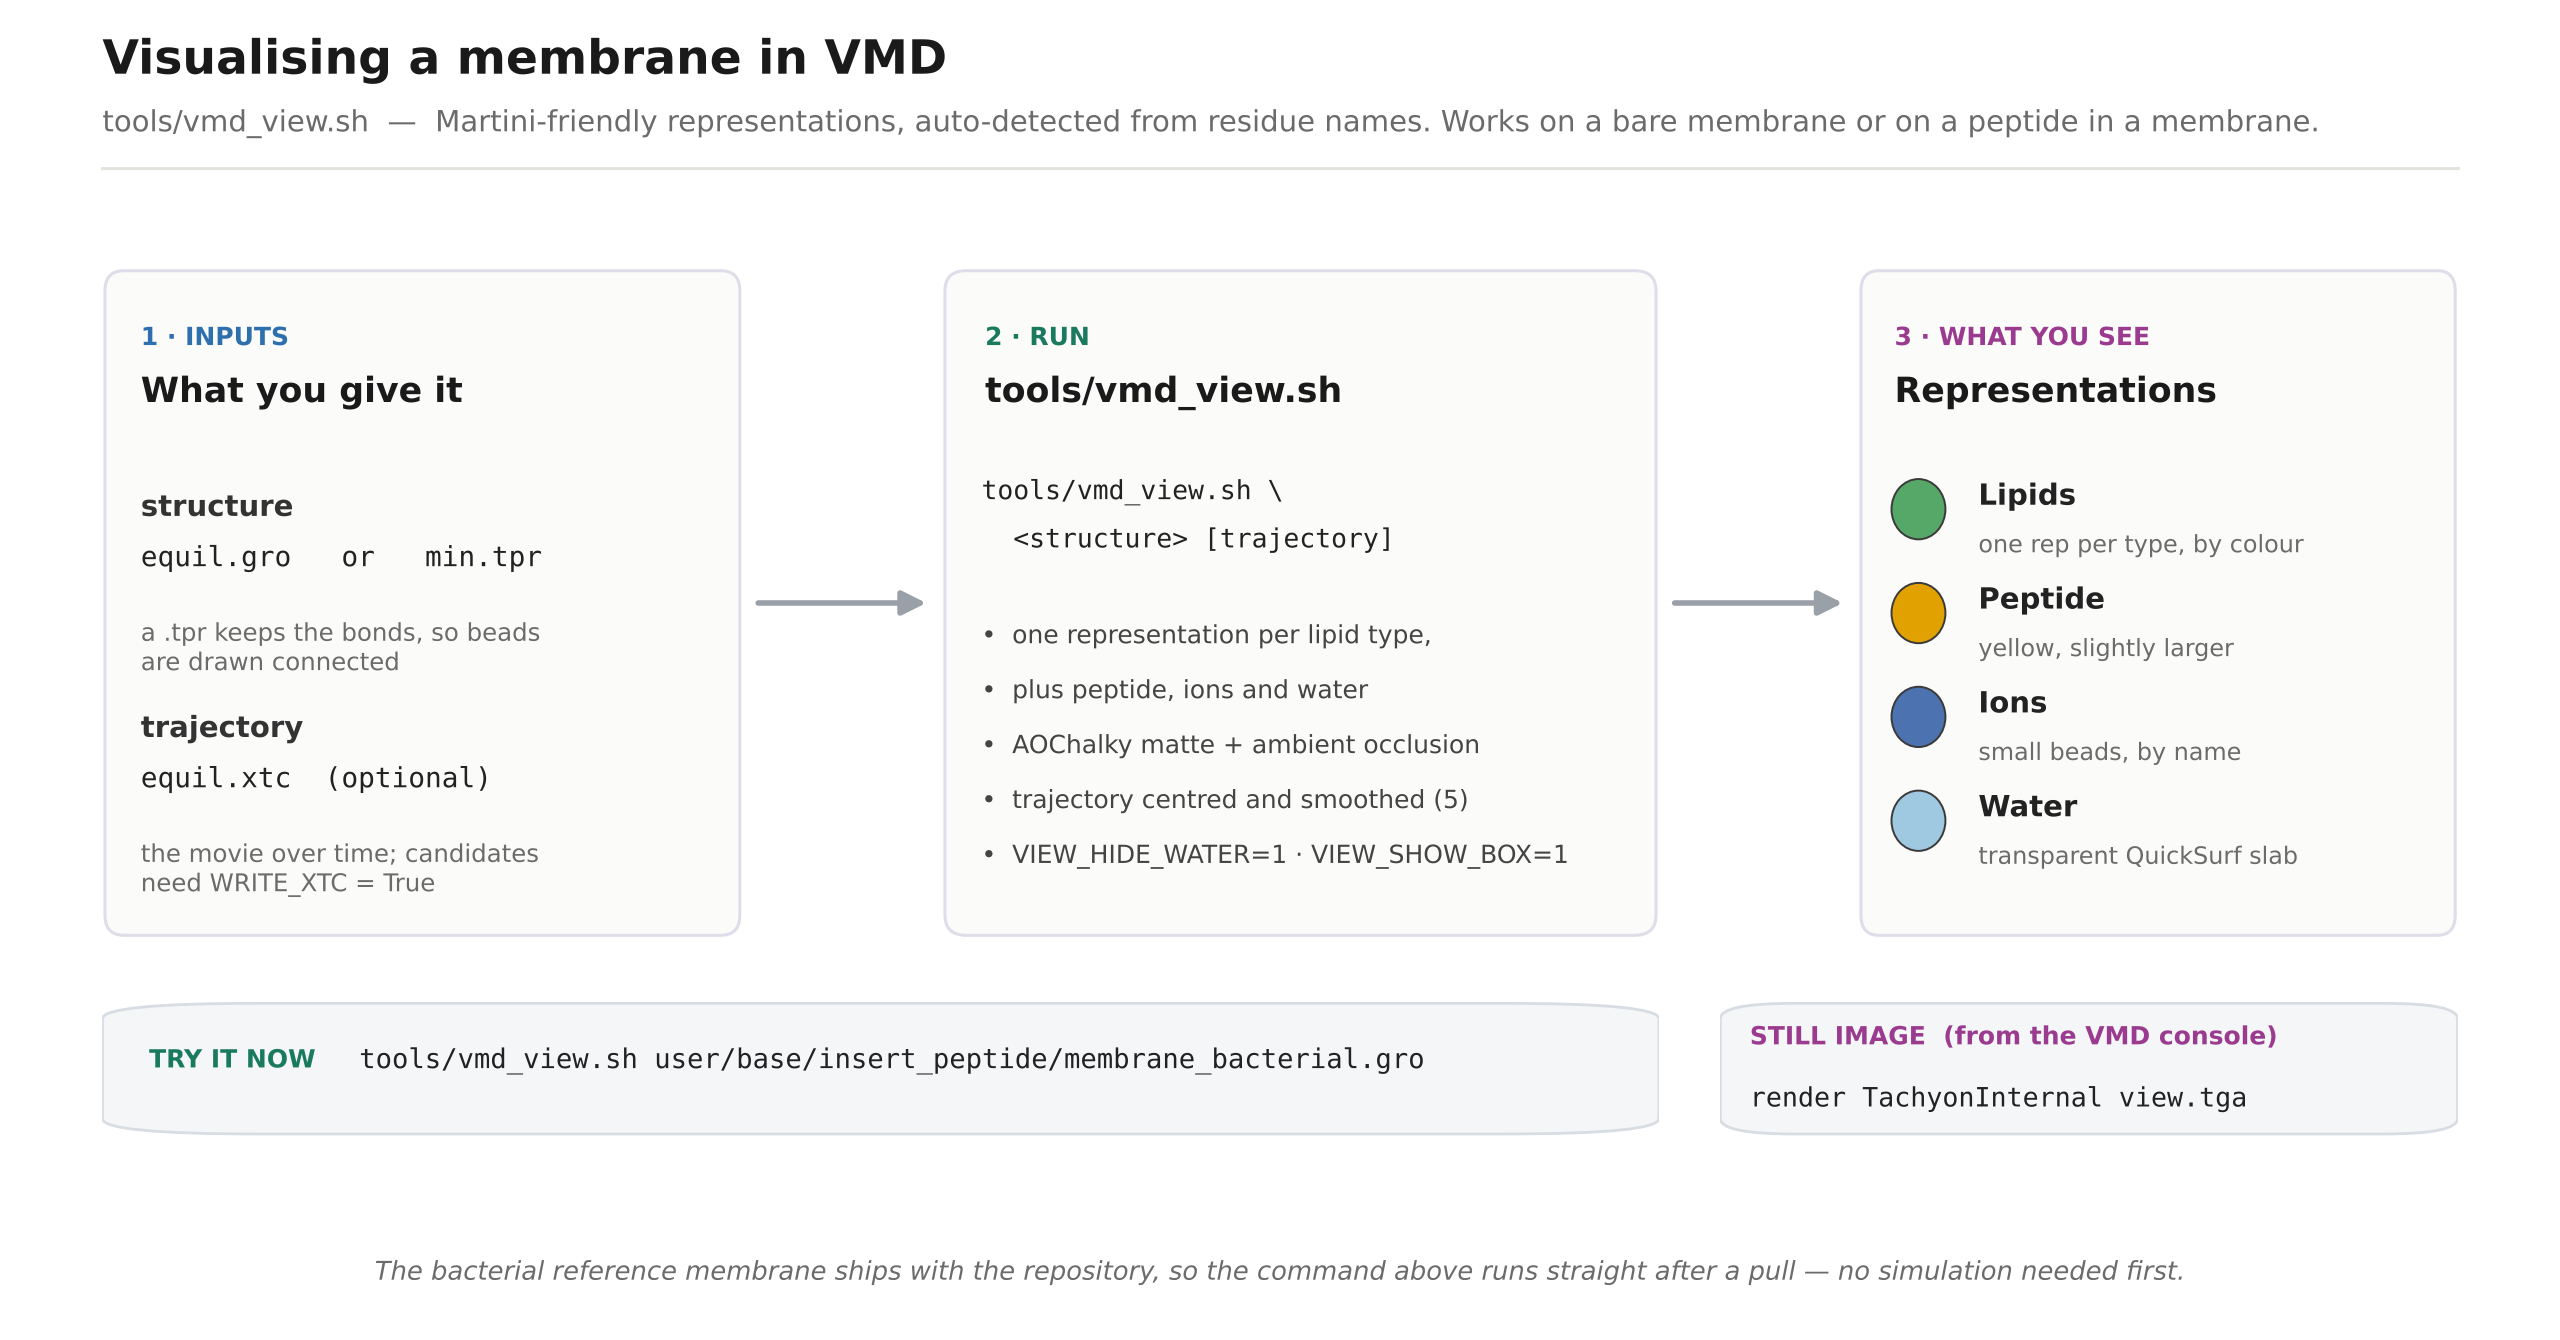
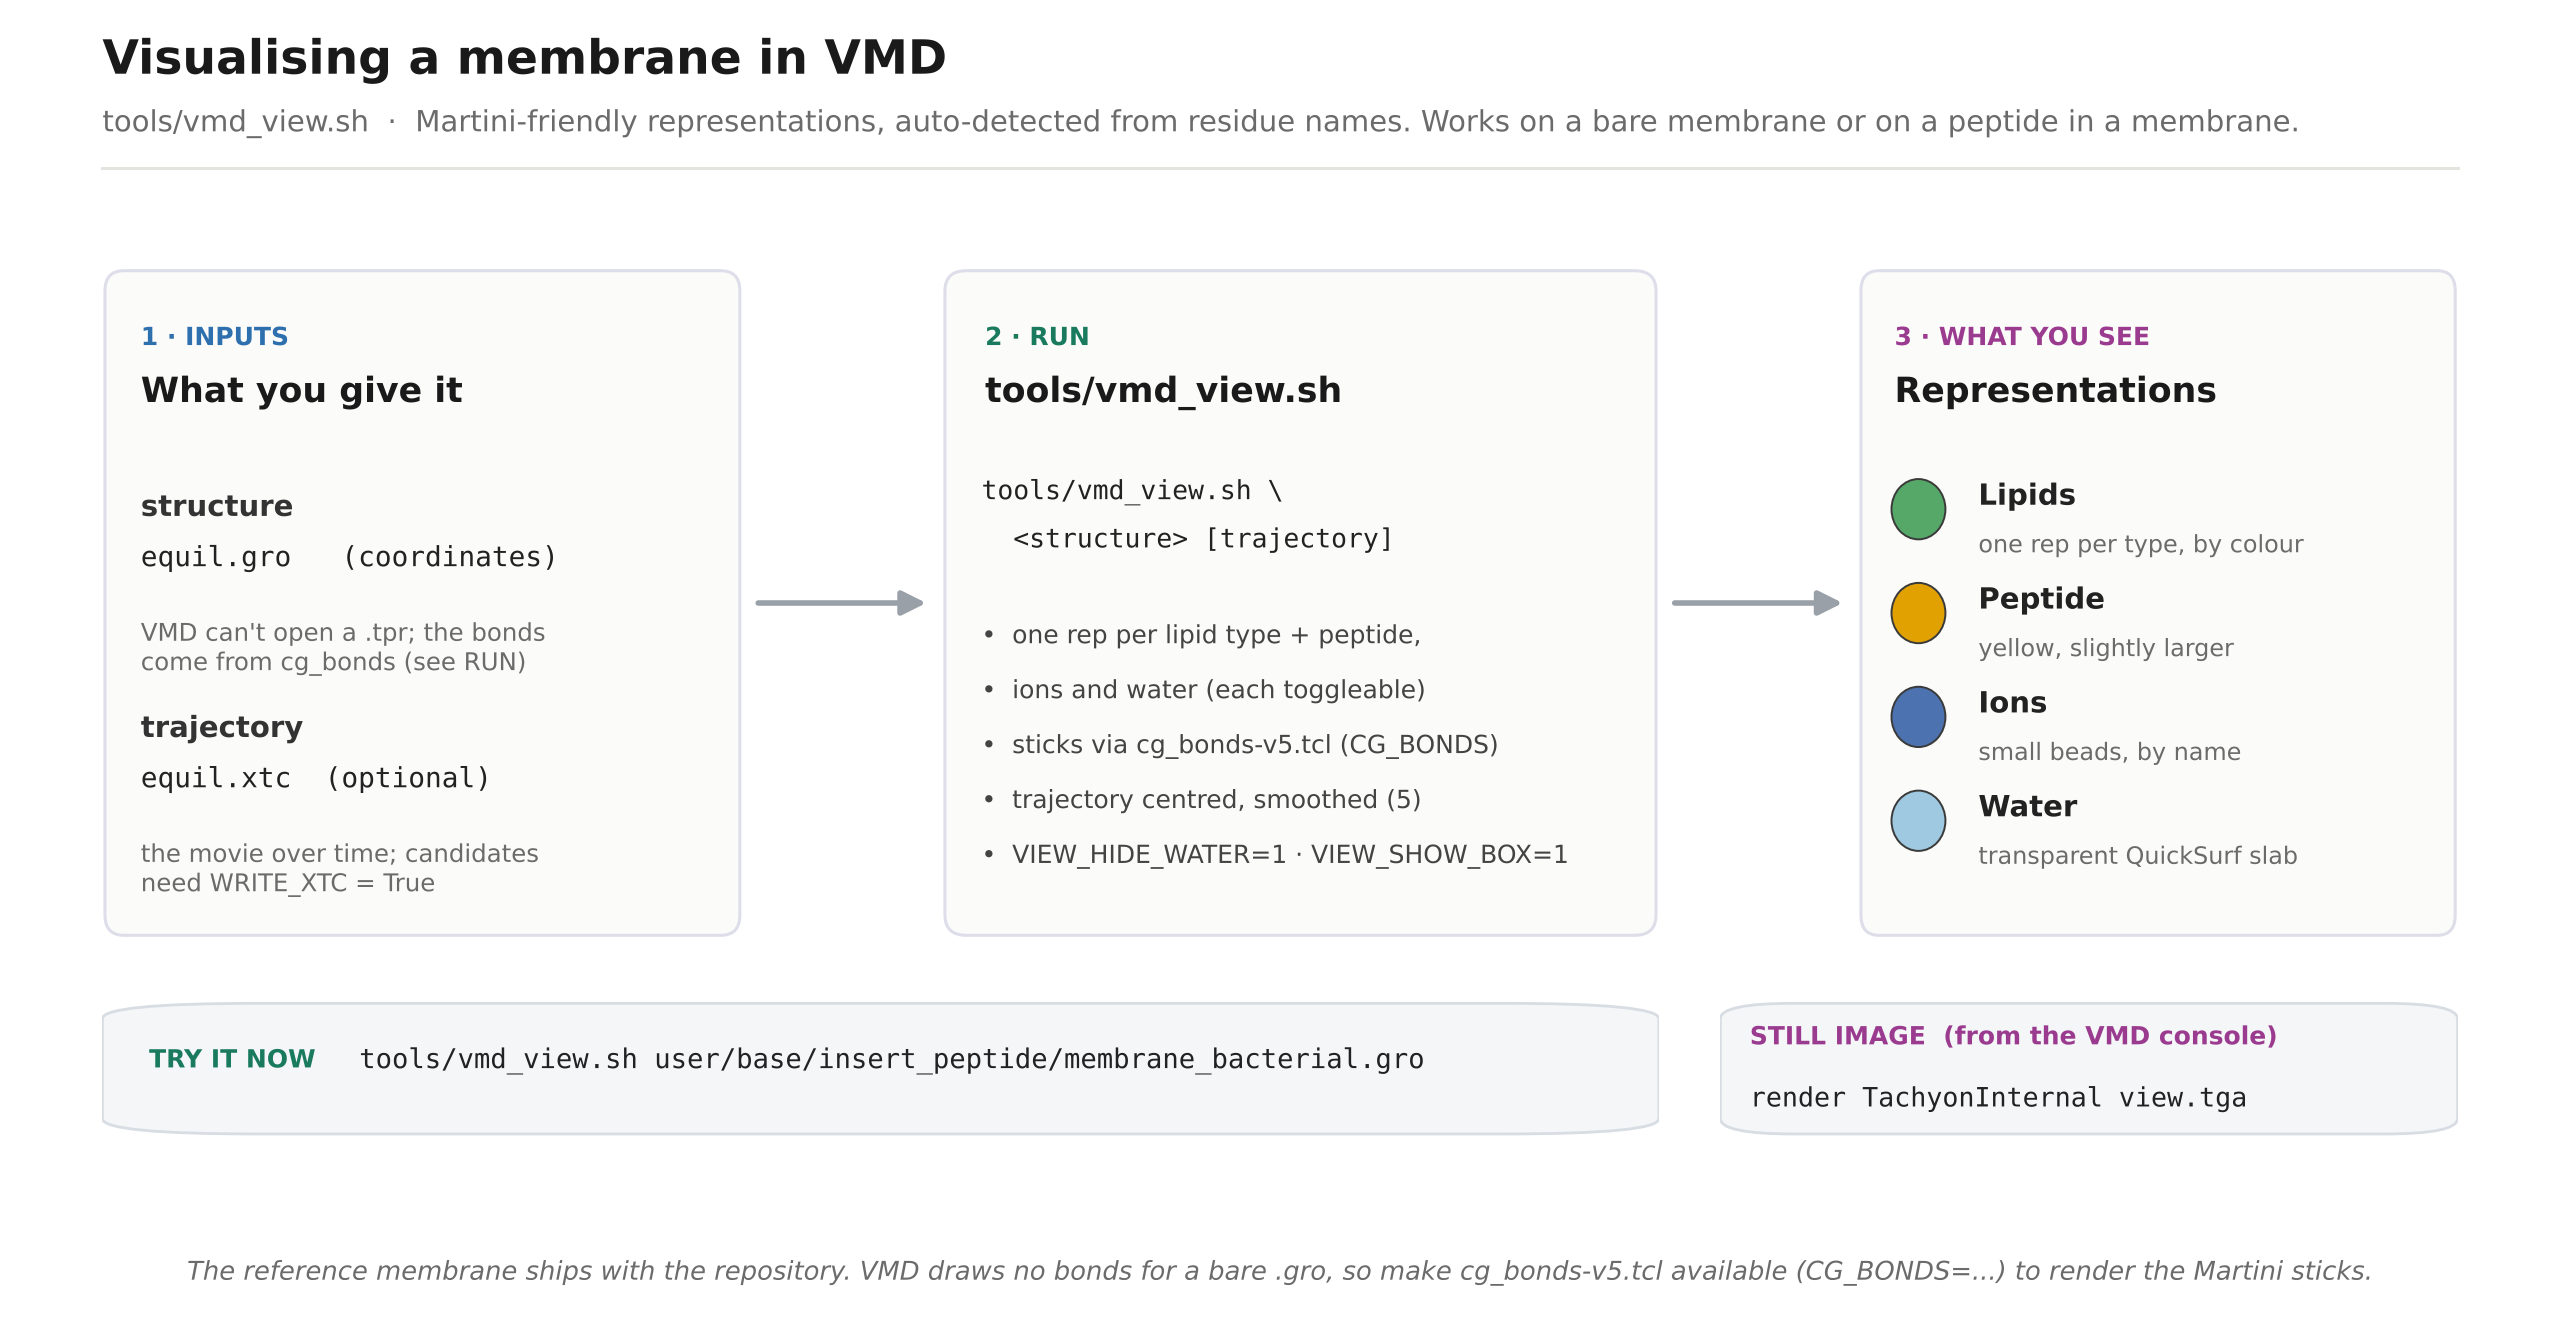
Draw Martini sticks via cg_bonds-v5.tcl; correct the .tpr misconception
VMD cannot recover coarse-grained bonds from a .gro and does not read a
.tpr, so a bare membrane only ever showed beads and the earlier advice
to pass a .tpr as the structure was wrong. Follow the Martini tutorials
instead: inject the bonds with cg_bonds-v5.tcl. vmd_view.sh now finds
that script (CG_BONDS=... or tools/vmd/) and a topology beside the
structure (.tpr via gmx dump, or .top; override with VIEW_BONDS), adds
the bonds before building the reps, and the lipids then render as
Licorice sticks; without it they fall back to beads with a clear note.

Fix the usage examples and README to load a .gro (never a .tpr) and
describe the cg_bonds step. Update the VMD figure to match, and drop the
em dashes from both figures.

diff --git a/docs/make_vmd_figure.py b/docs/make_vmd_figure.py
@@ -26,7 +26,7 @@ def rule(y, x0=LX, x1=RX, c="#e4e4df", lw=1.1):
 fig.text(LX, 0.945, "Visualising a membrane in VMD",
          fontsize=17, fontweight="bold", color=INK)
 fig.text(LX, 0.902,
-         "tools/vmd_view.sh  —  Martini-friendly representations, auto-detected from residue names. "
+         "tools/vmd_view.sh  ·  Martini-friendly representations, auto-detected from residue names. "
          "Works on a bare membrane or on a peptide in a membrane.",
          fontsize=10.5, color=MUTE)
 rule(0.875)
@@ -49,9 +49,9 @@ def panel(rect, tag, title, accent):
 # panel A: inputs
 axA = panel(pA, "1 · INPUTS", "What you give it", "#2E6FAE")
 axA.text(0.06, 0.63, "structure", fontsize=10.5, fontweight="bold", color="#333", transform=axA.transAxes)
-axA.text(0.06, 0.555, "equil.gro   or   min.tpr", fontsize=10, color="#222",
+axA.text(0.06, 0.555, "equil.gro   (coordinates)", fontsize=10, color="#222",
          family="DejaVu Sans Mono", transform=axA.transAxes)
-axA.text(0.06, 0.475, "a .tpr keeps the bonds, so beads\nare drawn connected",
+axA.text(0.06, 0.475, "VMD can't open a .tpr; the bonds\ncome from cg_bonds (see RUN)",
          fontsize=8.8, color=MUTE, transform=axA.transAxes, va="top")
 axA.text(0.06, 0.30, "trajectory", fontsize=10.5, fontweight="bold", color="#333", transform=axA.transAxes)
 axA.text(0.06, 0.225, "equil.xtc  (optional)", fontsize=10, color="#222",
@@ -68,10 +68,10 @@ for t, c in cmd:
     axB.text(0.055, yy, t, fontsize=9.5, color=c, family="DejaVu Sans Mono", transform=axB.transAxes)
     yy -= 0.072
 notes = [
-    "one representation per lipid type,",
-    "plus peptide, ions and water",
-    "AOChalky matte + ambient occlusion",
-    "trajectory centred and smoothed (5)",
+    "one rep per lipid type + peptide,",
+    "ions and water (each toggleable)",
+    "sticks via cg_bonds-v5.tcl (CG_BONDS)",
+    "trajectory centred, smoothed (5)",
     "VIEW_HIDE_WATER=1 · VIEW_SHOW_BOX=1",
 ]
 yy = 0.44
@@ -126,8 +126,8 @@ callout(0.145, 0.672, 0.288, "STILL IMAGE  (from the VMD console)",
         "#9a3b8f", "render TachyonInternal view.tga", stacked=True)
 
 fig.text(0.5, 0.045,
-         "The bacterial reference membrane ships with the repository, so the command above runs "
-         "straight after a pull — no simulation needed first.",
+         "The reference membrane ships with the repository. VMD draws no bonds for a bare .gro, so "
+         "make cg_bonds-v5.tcl available (CG_BONDS=...) to render the Martini sticks.",
          ha="center", fontsize=9.3, color=MUTE, style="italic")
 
 out = os.path.join(os.path.dirname(os.path.abspath(__file__)), "vmd_view.png")

diff --git a/docs/make_membranes_figure.py b/docs/make_membranes_figure.py
@@ -204,7 +204,7 @@ def membrane_panel(ax, title, subtitle, lines, charge_lines, accent):
 pw, pgap = (RX - LX - 0.03) / 2.0, 0.03
 axb = fig.add_axes([LX, 0.050, pw, 0.295])
 membrane_panel(
-    axb, "Bacterial target — POPE:POPG 3:1",
+    axb, "Bacterial target · POPE:POPG 3:1",
     "Gram-negative inner-membrane mimic. 198 lipids, ~5285 beads, 0.15 M NaCl.",
     [("POPE (zwitterionic)", "140"), ("POPG (anionic, −1 each)", "58"),
      ("W  (Martini water)", "2847"), ("Na⁺  /  Cl⁻", "60 / 2")],
@@ -214,7 +214,7 @@ membrane_panel(
 
 axh = fig.add_axes([LX + pw + pgap, 0.050, pw, 0.295])
 membrane_panel(
-    axh, "Host — POPC (neutral)",
+    axh, "Host · POPC (neutral)",
     "Mammalian-membrane mimic. Cholesterol and sphingomyelin deferred.",
     [("POPC (zwitterionic)", "194"), ("W  (Martini water)", "~2716"),
      ("Na⁺  /  Cl⁻", "equal (salt only)")],

diff --git a/README.md b/README.md
@@ -1198,43 +1198,52 @@ is individually toggleable and the same command works on a bare bilayer and on a
 
 **What it draws.** One representation per lipid type present, each in a flat colour of its own so
 the types are visually separate and can be toggled independently in `Graphics > Representations`.
-Lipids are drawn as licorice sticks (the Martini-tutorial look) when the structure carries bonds (a
-`.tpr`), and as small beads for a bond-less `.gro` (VMD finds no bonds for coarse-grained beads by
-distance). The peptide is in yellow and slightly larger; ions as small beads coloured by name; and
-water as a transparent QuickSurf surface, all in a chalky matte style (VMD's `AOChalky` material
-with ambient occlusion, orthographic projection). Set `VIEW_HIDE_WATER=1` to drop the water
-surface. The periodic box outline is not drawn by default; set `VIEW_SHOW_BOX=1` to draw it. To try
-a different lipid style without editing, set `VIEW_LIPID_REP`, for example `"Bonds 1.0 12.0"` or
-`"VDW 1.0 20.0"`.
+Lipids are drawn as licorice sticks (the Martini-tutorial look) once the Martini bonds are present,
+and as small beads otherwise (see the next paragraph). The peptide is in yellow and slightly larger;
+ions as small beads coloured by name; and water as a transparent QuickSurf surface, all in a chalky
+matte style (VMD's `AOChalky` material with ambient occlusion, orthographic projection). Set
+`VIEW_HIDE_WATER=1` to drop the water surface. The periodic box outline is not drawn by default; set
+`VIEW_SHOW_BOX=1` to draw it. To try a different lipid style, set `VIEW_LIPID_REP`, for example
+`"Bonds 1.0 12.0"` or `"VDW 1.0 20.0"`.
 
-**Try it now.** The equilibrated bacterial reference membrane is committed, so this runs straight
-after a clone or pull, with nothing to build first:
+**Drawing the Martini bonds (sticks).** VMD cannot recover coarse-grained bonds from a `.gro` (the
+beads sit too far apart for its distance search) and it does not read a `.tpr`, so a bare membrane
+shows only as beads. This is the same limitation the Martini tutorials solve with
+[`cg_bonds-v5.tcl`](https://cgmartini.nl/docs/downloads/tools/visualization.html), which injects the
+bonds from the topology. Make that script available (`CG_BONDS=/path/to/cg_bonds-v5.tcl`, or drop it
+in `tools/vmd/`) and `vmd_view.sh` calls it automatically, taking the bonds from a `.tpr` (via `gmx
+dump`, the reliable route) or a `.top` found beside the structure (override with `VIEW_BONDS=...`).
+With the bonds added the lipids render as sticks; without the script they fall back to beads.
+
+**Try it now.** Point it at a membrane whose `.tpr` sits beside the `.gro`, so the bonds are added
+automatically:
 
 ```bash
-tools/vmd_view.sh user/base/insert_peptide/membrane_bacterial.gro      # the committed reference
+tools/vmd_view.sh prep/bacterial/equil.gro                             # bonds from equil.tpr beside it
+tools/vmd_view.sh prep/bacterial/equil.gro prep/bacterial/equil.xtc    # the same, with the trajectory (movie)
 ```
 
-Other inputs, once you have run the pipeline:
+The committed reference ships as a `.gro` with its `.top` (no `.tpr`), so it shows sticks only if
+`cg_bonds-v5.tcl` can parse that `.top`; otherwise it shows beads:
 
 ```bash
-tools/vmd_view.sh prep/bacterial/equil.gro                             # a membrane you just built (one frame)
-tools/vmd_view.sh prep/bacterial/equil.tpr prep/bacterial/equil.xtc    # the movie: structure + trajectory
-tools/vmd_view.sh output/<SEQ>/production_bacterial.tpr \
-                  output/<SEQ>/production_bacterial.xtc                 # a candidate: peptide in the membrane
+tools/vmd_view.sh user/base/insert_peptide/membrane_bacterial.gro      # committed reference
 ```
 
-To watch the equilibration as a movie rather than a single frame, pass the `.tpr` (which carries
-the bonds, so the beads stay connected) together with its `.xtc`. The equilibration recipe writes
-one frame every 50 000 steps, so a 500 ns run gives a few hundred frames to scrub through.
+A candidate run is a peptide in a membrane:
 
-Prefer the `.tpr` over the `.gro` as the structure: it carries the bonds, so the beads are drawn
-connected rather than loose (a `.gro` has no connectivity, which is still perfectly readable for a
-membrane). To watch the peptide interact with the bilayer over time you need the trajectory, which
-exists only when `WRITE_XTC = True` (see [Where everything lands](#where-everything-lands)); re-run
-the candidates you want to inspect with it on, since a full campaign keeps no trajectories. Set
-`VMD=/path/to/vmd` if `vmd` is not on the PATH, for example a module's binary. For a clean still,
-use `File > Render` with the Tachyon renderer, or `render TachyonInternal view.tga` from the VMD
-console.
+```bash
+tools/vmd_view.sh output/<SEQ>/production_bacterial.gro \
+                  output/<SEQ>/production_bacterial.xtc
+```
+
+To watch the equilibration as a movie, pass the `.gro` and its `.xtc`; the recipe writes one frame
+every 50 000 steps, so a 500 ns run gives a few hundred frames. The bilayer is kept centred over the
+run and every representation is smoothed over a 5-frame window. A candidate's trajectory exists only
+when `WRITE_XTC = True` (see [Where everything lands](#where-everything-lands)); a full campaign
+keeps no trajectories, so re-run the candidates you want to inspect with it on. Set `VMD=/path/to/vmd`
+if `vmd` is not on the PATH, for example a module's binary. For a clean still, use `File > Render`
+with the Tachyon renderer, or `render TachyonInternal view.tga` from the VMD console.
 
 ### Diagnosing a failure
 
